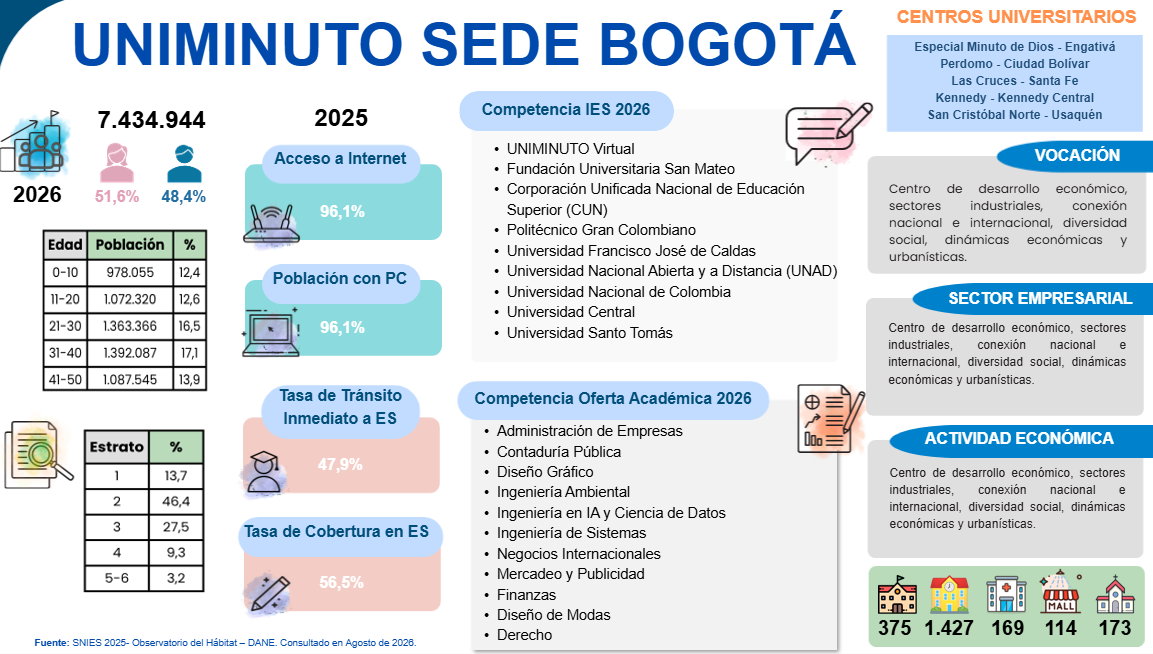
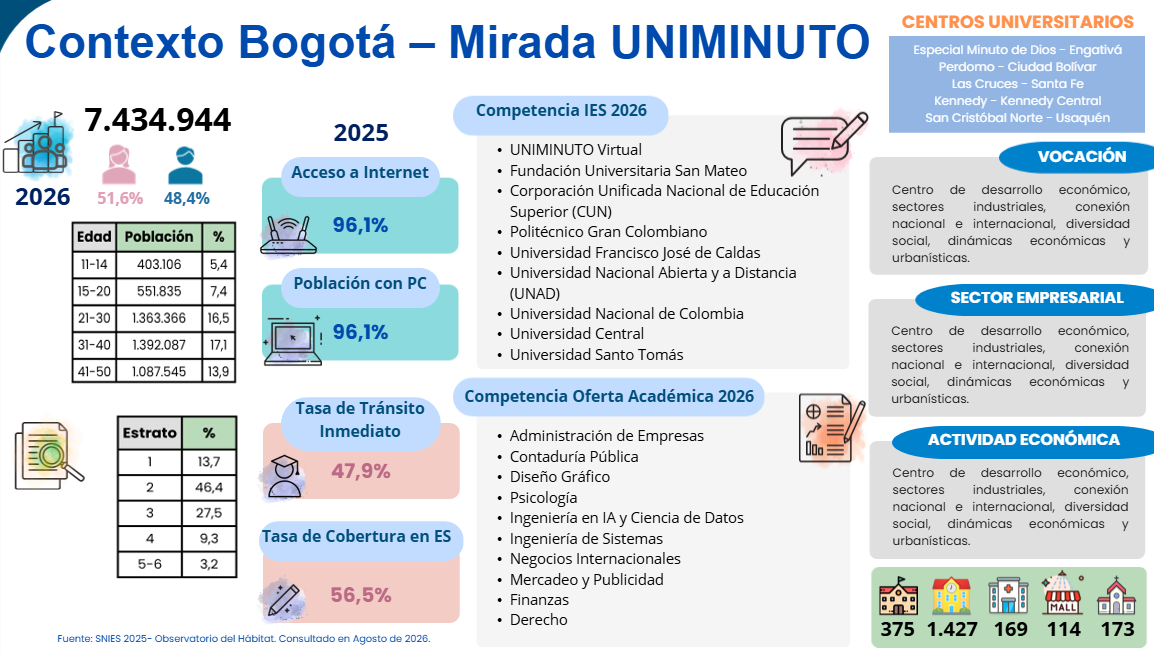
Actualizacion de imagen y vista movil

diff --git a/src/app/components/MobileView.tsx b/src/app/components/MobileView.tsx
@@ -620,7 +620,8 @@ function LineasChart({ data }: { data: any }) {
 // ─────────────────────────────────────────────
 interface MobileContentProps { centroId: string; }
 
-export function MobileContent({ centroId }: MobileContentProps) {
+export function MobileContent({ centroId = 'sede-bogota' }: MobileContentProps) {
+  const isSedeBogota = centroId === 'sede-bogota';
   const { data, loading, centroNombre } = useObservatorio(centroId);
   const p1 = transformarPage1(data);
   const p2 = transformarPage2(data);
@@ -643,7 +644,8 @@ export function MobileContent({ centroId }: MobileContentProps) {
   const mapaSrc     = MAPA_IMAGENES[centroId]     || '/engativa.png';
   const contextoSrc = CONTEXTO_IMAGENES[centroId] || '/contexto-engativa.png';
   const ebitdaSrc   = EBITDA_IMAGENES[centroId]   || '/ebitda_engativa.png';
-  const subtitle    = `Centro Universitario ${centroNombre}`;
+  const subtitle    = isSedeBogota ? 'Sede Bogotá' : `Centro Universitario ${centroNombre}`;
+  const subtitlePage2 = isSedeBogota ? 'Sede Bogotá S2/Q2' : `Centro Universitario ${centroNombre} S2/Q2`;
   const lider       = NOMBRE_LIDER[centroId] || '';
 
   const FullTable = ({ children, style = {} }: { children: React.ReactNode; style?: React.CSSProperties }) => (
@@ -674,18 +676,21 @@ export function MobileContent({ centroId }: MobileContentProps) {
             <div style={{ flex: 1, margin: '0 8px', overflow: 'hidden' }}>
               <div style={{ backgroundColor: BLUE_LIGHT, clipPath: 'polygon(2% 0%,100% 0%,98% 100%,0% 100%)', padding: '4px 12px', textAlign: 'center' }}>
                 <span style={{ fontSize: 10, fontWeight: 600, color: BLUE, textAlign: 'center', lineHeight: 1.4 }}>
-                  Centro Universitario<br />
-                  {centroNombre}
+                  {isSedeBogota ? 'Sede Bogotá' : (<>Centro Universitario<br />{centroNombre}</>)}
                 </span>
               </div>
             </div>
             <img src="/Logo_Acreditacion.png" alt="Acreditación" style={{ height: 30, objectFit: 'contain' }} />
           </div>
           <p style={{ textAlign: 'center', fontWeight: 700, fontSize: 12, color: '#222', margin: '8px 0 1px' }}>
-            Ficha Centro Universitario
+            {isSedeBogota ? 'Ficha - Sede Bogotá' : 'Ficha Centro Universitario'}
           </p>
           <p style={{ textAlign: 'center', fontSize: 10, color: '#555', margin: 0 }}>
-            Líder: <strong style={{ color: BLUE }}>{lider}</strong>
+            {isSedeBogota ? (
+              <span style={{ fontWeight: 600 }}>Rectoría Bogotá</span>
+            ) : (
+              <>Líder: <strong style={{ color: BLUE }}>{lider}</strong></>
+            )}
           </p>
         </Card>
       </Reveal>
@@ -701,8 +706,11 @@ export function MobileContent({ centroId }: MobileContentProps) {
       {/* ══ ESTUDIANTES 2026 S1-Q1 ══ */}
       <Reveal delay={80}>
         <Card mb={10}>
-          <MBanner>ESTUDIANTES CENTRO UNIVERSITARIO 2026 S2-Q2
-</MBanner>
+          <MBanner>
+            {isSedeBogota
+              ? 'ESTUDIANTES SEDE BOGOTÁ 2026 S2-Q2'
+              : 'ESTUDIANTES CENTRO UNIVERSITARIO 2026 S2-Q2'}
+          </MBanner>
           <div style={{ display: 'flex', gap: 6, alignItems: 'flex-start' }}>
 
             {/* Tabla izquierda
@@ -810,7 +818,11 @@ export function MobileContent({ centroId }: MobileContentProps) {
       {/* ══ CONTEXTO ══ */}
       <Reveal delay={80}>
         <Card mb={10}>
-          <MBanner>CONTEXTO CENTRO UNIVERSITARIO</MBanner>
+          <MBanner>
+            {isSedeBogota
+              ? 'CONTEXTO EXTERNO BOGOTÁ'
+              : 'CONTEXTO CENTRO UNIVERSITARIO'}
+          </MBanner>
           <img src={contextoSrc} alt="Contexto"
             style={{ width: '100%', objectFit: 'contain', display: 'block', maxHeight: 270 }} />
         </Card>
@@ -828,7 +840,11 @@ export function MobileContent({ centroId }: MobileContentProps) {
 {p1.indicatorsRows.length > 0 && (
   <Reveal delay={60}>
     <Card mb={10}>
-      <MBanner>PROYECCIÓN INDICADORES CENTRO UNIVERSITARIO</MBanner>
+      <MBanner>
+        {isSedeBogota
+          ? 'PROYECCIÓN INDICADORES SEDE BOGOTÁ'
+          : 'PROYECCIÓN INDICADORES CENTRO UNIVERSITARIO'}
+      </MBanner>
       <StickyScrollTable>
         <thead>
           <tr>
@@ -906,7 +922,7 @@ export function MobileContent({ centroId }: MobileContentProps) {
             <img src="/Logo UNIMINUTO.png" alt="Logo" style={{ height: 36, objectFit: 'contain' }} />
             <div style={{ flex: 1, margin: '0 8px', overflow: 'hidden' }}>
               <div style={{ backgroundColor: BLUE_LIGHT, clipPath: 'polygon(2% 0%,100% 0%,98% 100%,0% 100%)', padding: '4px 12px', textAlign: 'center' }}>
-                <span style={{ fontSize: 10, fontWeight: 600, color: BLUE, whiteSpace: 'nowrap' }}>{subtitle}</span>
+                <span style={{ fontSize: 10, fontWeight: 600, color: BLUE, whiteSpace: 'nowrap' }}>{subtitlePage2}</span>
               </div>
             </div>
             <img src="/Logo_Acreditacion.png" alt="Acreditación" style={{ height: 30, objectFit: 'contain' }} />
@@ -1187,7 +1203,11 @@ export function MobileContent({ centroId }: MobileContentProps) {
       {p2?.graficaDesercion && (
         <Reveal delay={60}>
           <Card mb={10}>
-            <MBanner>Proyección Deserción por Centro Universitario</MBanner>
+            <MBanner>
+              {isSedeBogota
+                ? 'Proyección Deserción por Sede Bogotá'
+                : 'Proyección Deserción por Centro Universitario'}
+            </MBanner>
             <DesercionChart data={p2.graficaDesercion} />
           </Card>
         </Reveal>
@@ -1197,7 +1217,7 @@ export function MobileContent({ centroId }: MobileContentProps) {
       {p2?.graficaLineas && (
         <Reveal delay={60}>
           <Card mb={10}>
-            <MBanner>Proyección estudiantes por modalidad S1-Q1</MBanner>
+            <MBanner>Proyección estudiantes por Modalidad</MBanner>
             <LineasChart data={p2.graficaLineas} />
           </Card>
         </Reveal>
